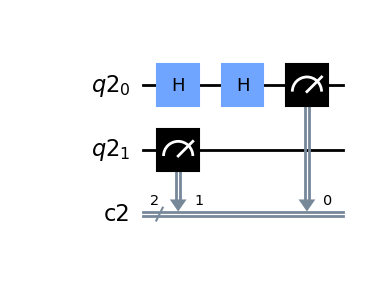
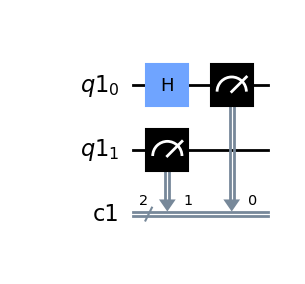
Initial Hangman
The color of the letters  for the gate selection needs to be changed. The words to be guessed also need to be chosen

Changed region(s): [[0.2361, 0.1972, 0.8557, 0.7606], [0.2361, 0.4507, 0.6492, 0.7887]]

diff --git a/Hangman.py b/Hangman.py
@@ -21,7 +21,9 @@ pygame.init()
 
 pygame.display.set_caption("Hangman")
 
-
+bg = 'logo.png'
+bg = pygame.image.load(bg)
+bg = pygame.transform.scale(bg, (500, 500))
 gates = ['X0', 'Y0', 'Z0', 'H0', 'C01', 'X1', 'Y1', 'Z1', 'H1', 'C10']
 gateslist=[]
 #32 bit display
@@ -38,8 +40,12 @@ Color = ["BLACK","WHITE","RED","GREEN","BLUE","GREY"]
 
 Font = pygame.font.Font("freesansbold.ttf",33)
 Font2 = pygame.font.Font("freesansbold.ttf",20)
+font = pygame.font.Font("freesansbold.ttf", 36)
 
 Display.fill(WHITE)
+display_width = 500
+display_height = 500
+
 
 def randomNum(choice):
     RandomNum = 0
@@ -86,6 +92,7 @@ def Hangman(condition):
 def PreHangMan():
     qc=ansatz([])
     qc.draw('mpl').savefig('initial.png')
+    qc.draw('mpl').savefig('current.png')
     img = pygame.image.load('initial.png')
     img = pygame.transform.scale(img, (150, 150))
     Display.blit(img, (50,180))
@@ -98,6 +105,177 @@ def StartScreen():
     Display.blit(Font2.render("1- Easy",True,BLACK), (200,200))
     Display.blit(Font2.render("2- Medium",True,BLACK), (200,250))
     Display.blit(Font2.render("3- Hard",True,BLACK), (200,300))
+
+class Button(object):
+    def __init__(self, text, color, x=None, y=None, **kwargs):
+        self.surface = font.render(text, True, color)
+
+        self.WIDTH = self.surface.get_width()
+        self.HEIGHT = self.surface.get_height()
+
+        if 'centered_x' in kwargs and kwargs['centered_x']:
+            self.x = display_width // 2 - self.WIDTH // 2
+        else:
+            self.x = x
+
+        if 'centered_y' in kwargs and kwargs['cenntered_y']:
+            self.y = display_height // 2 - self.HEIGHT // 2
+        else:
+            self.y = y
+
+    def display(self):
+        Display.blit(self.surface, (self.x, self.y))
+
+    def check_click(self, position):
+        x_match = position[0] > self.x and position[0] < self.x + self.WIDTH
+        y_match = position[1] > self.y and position[1] < self.y + self.HEIGHT
+
+        if x_match and y_match:
+            return True
+        else:
+            return False
+
+def gate_choose():
+    Display.fill(WHITE)
+    img = pygame.image.load('current.png')
+    img = pygame.transform.scale(img, (400, 200))
+    Display.blit(img, (50, 20))
+
+    img = pygame.image.load('histogram.png')
+    img = pygame.transform.scale(img, (500, 200))
+    Display.blit(img, (500, 20))
+
+    pygame.display.update()  # update the display
+    game_title = font.render('Which gate would you like to choose?', True, RED)
+
+    Display.blit(game_title, (display_width // 2 - game_title.get_width() // 2, 250))
+    left = 200
+    H_button = Button('H', WHITE, left, 50)
+    X_button = Button('X', WHITE, left, 400)
+    Y_button = Button('Y', WHITE, left, 450)
+    Z_button = Button('Z', WHITE, None, 350, centered_x=True)
+    CNOT1_button = Button('CX10', WHITE, None, 400, centered_x=True)
+    CNOT_button = Button('CX01', WHITE, None, 450, centered_x=True)
+    DONE_button = Button('DONE', WHITE, None, 500, centered_x=True)
+
+    H_button.display()
+    X_button.display()
+    Z_button.display()
+    Y_button.display()
+    CNOT1_button.display()
+    CNOT_button.display()
+    DONE_button.display()
+
+    pygame.display.update()
+    while True:
+
+        if H_button.check_click(pygame.mouse.get_pos()):
+            H_button = Button('H', RED, left, 350)
+        else:
+            H_button = Button('H', WHITE, left, 350)
+
+        if X_button.check_click(pygame.mouse.get_pos()):
+            X_button = Button('X', RED, left, 400)
+        else:
+            X_button = Button('X', WHITE, left, 400)
+
+        if Y_button.check_click(pygame.mouse.get_pos()):
+            Y_button = Button('Y', RED, left, 450)
+        else:
+            Y_button = Button('Y', WHITE, left, 450)
+
+        if Z_button.check_click(pygame.mouse.get_pos()):
+            Z_button = Button('Z', RED, None, 350, centered_x=True)
+        else:
+            Z_button = Button('Z', WHITE, None, 350, centered_x=True)
+
+        if CNOT1_button.check_click(pygame.mouse.get_pos()):
+            CNOT1_button = Button('CX10', RED, None, 400, centered_x=True)
+        else:
+            CNOT1_button = Button('CX10', WHITE, None, 400, centered_x=True)
+        if CNOT_button.check_click(pygame.mouse.get_pos()):
+            CNOT_button = Button('CX01', RED, None, 450, centered_x=True)
+        else:
+            CNOT_button = Button('CX01', WHITE, None, 450, centered_x=True)
+
+        if DONE_button.check_click(pygame.mouse.get_pos()):
+            DONE_button = Button('DONE', RED, None, 500, centered_x=True)
+        else:
+            DONE_button = Button('DONE', WHITE, None, 500, centered_x=True)
+
+        H_button.display()
+        X_button.display()
+        Y_button.display()
+        Z_button.display()
+        CNOT1_button.display()
+        CNOT_button.display()
+        pygame.display.update()
+
+        for event in pygame.event.get():
+            if event.type == pygame.QUIT:
+                pygame.quit()
+                raise SystemExit
+        if pygame.mouse.get_pressed()[0]:
+            if H_button.check_click(pygame.mouse.get_pos()):
+                return 'H'
+                break
+            if X_button.check_click(pygame.mouse.get_pos()):
+                return "X"
+                break
+            if Y_button.check_click(pygame.mouse.get_pos()):
+                return "Y"
+                break
+            if Z_button.check_click(pygame.mouse.get_pos()):
+                return "Z"
+                break
+            if CNOT1_button.check_click(pygame.mouse.get_pos()):
+                return "C10"
+                break
+            if CNOT_button.check_click(pygame.mouse.get_pos()):
+                return "C01"
+                break
+         
+
+def qubit_choose():
+    Display.fill(WHITE)
+    game_title = font.render('Which qubit would you like to apply that gate on?', True, RED)
+
+    Display.blit(game_title, (display_width // 2 - game_title.get_width() // 2, 250))
+    zero_button = Button('0', WHITE, None, 350, centered_x=True)
+    one_button = Button('1', WHITE, None, 400, centered_x=True)
+
+    zero_button.display()
+    one_button.display()
+
+    pygame.display.update()
+    while True:
+
+        if zero_button.check_click(pygame.mouse.get_pos()):
+            zero_button = Button('0', RED, None, 350, centered_x=True)
+        else:
+            zero_button = Button('0', WHITE, None, 350, centered_x=True)
+
+        if one_button.check_click(pygame.mouse.get_pos()):
+            one_button = Button('1', RED, None, 400, centered_x=True)
+        else:
+            one_button = Button('1', WHITE, None, 400, centered_x=True)
+
+        zero_button.display()
+        one_button.display()
+        pygame.display.update()
+
+        for event in pygame.event.get():
+            if event.type == pygame.QUIT:
+                pygame.quit()
+                raise SystemExit
+        if pygame.mouse.get_pressed()[0]:
+            if zero_button.check_click(pygame.mouse.get_pos()):
+                return '0'
+                break
+            if one_button.check_click(pygame.mouse.get_pos()):
+                return '1'
+                break
+
           
 def main():
     BLACK = (0,0,0)
@@ -260,10 +438,14 @@ def main():
                                 EmptyList[i] = TheWord[i]
 
                     else:
+
                          Condition = Condition + 1
-                         gateslist.append(gates[3])
+                         gate_selected=gate_choose()
+                         qubit_selected=qubit_choose()
+                         gateslist.append(gate_selected+qubit_selected)
                          qc=ansatz(gateslist)
                          qc.draw('mpl').savefig('current.png')
+                         Display.fill(WHITE)
 
                     Hidden = Font.render("".join(EmptyList),True,BLACK)
                     HiddenRect = Hidden.get_rect()
